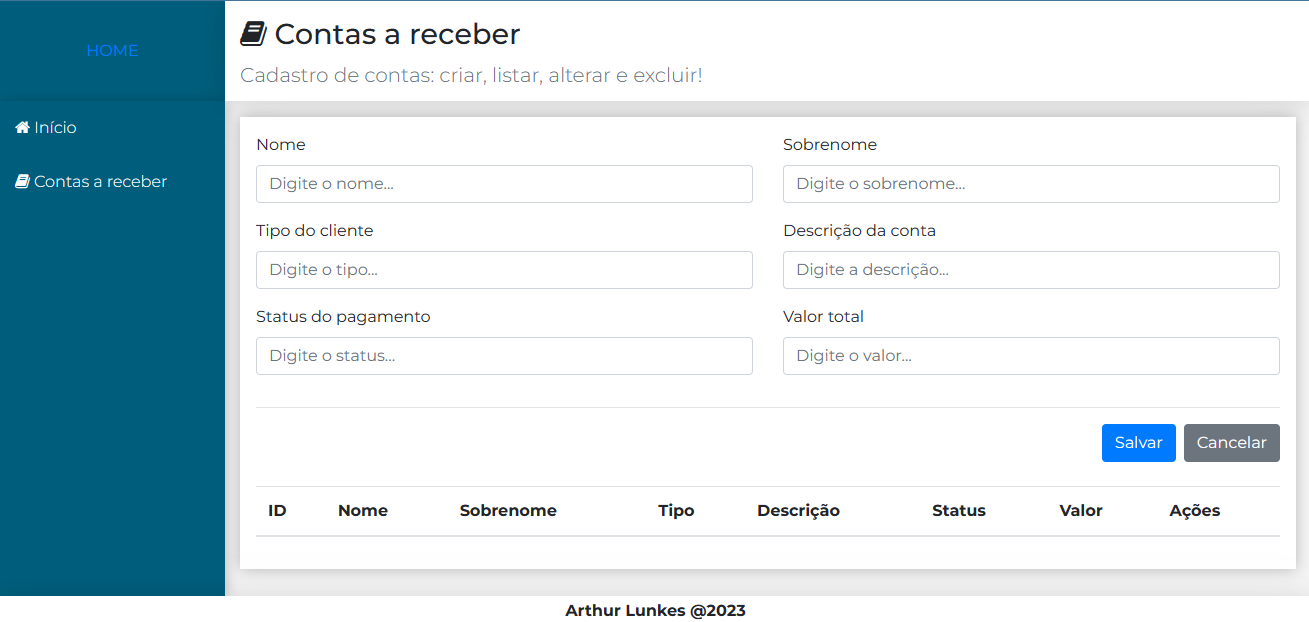
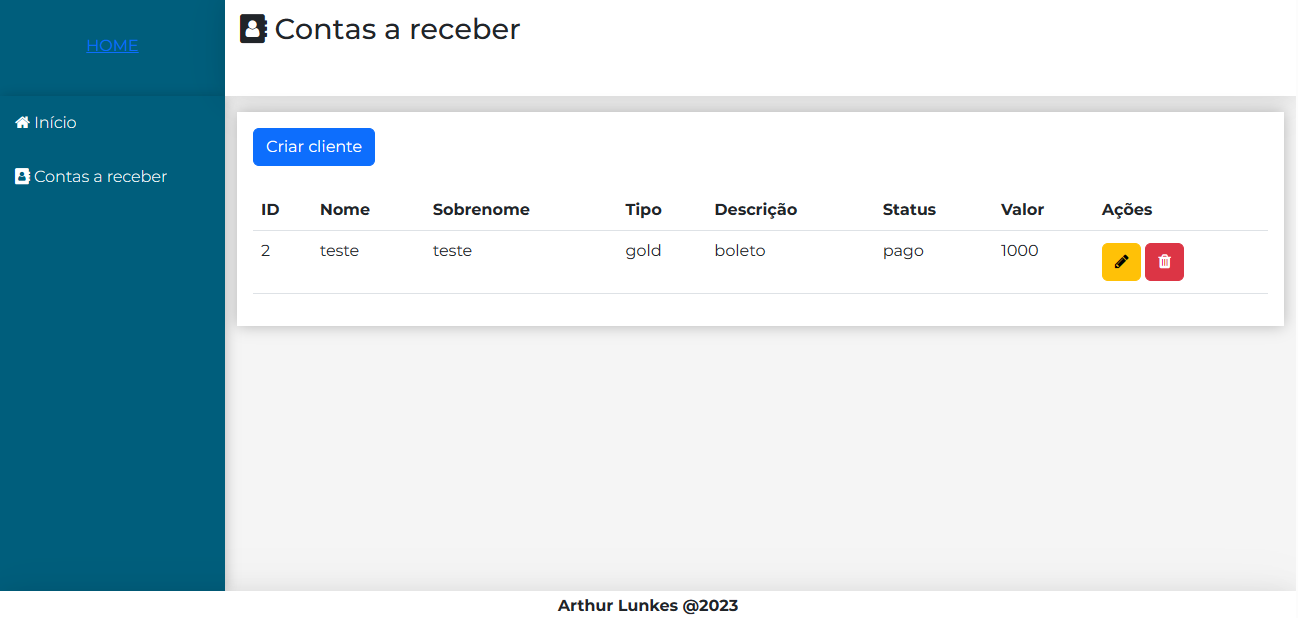
Funcionando crud de cliente

diff --git a/frontend/src/pages/Login/Login.jsx b/frontend/src/pages/Login/Login.jsx
@@ -1,6 +1,7 @@
-import './Login.css'
-import React, { useState, useContext } from 'react'
-import { AuthContext } from '../../contexts/AuthContext'
+import './Login.css';
+import React, { useState, useContext } from 'react';
+import { AuthContext } from '../../contexts/AuthContext';
+import { setAuthHeader } from '../../services/axios.js';
 import { Navigate } from 'react-router';
 import axios from 'axios';
 
@@ -21,12 +22,12 @@ const Login = () => {
 
   const handleSubmit = async (e) => {
     e.preventDefault();
-  
+
     const data = {
       login: username,
       password: password
     };
-  
+
     await axios.post(
       'http://localhost:8080/auth/login',
       data,
@@ -37,25 +38,26 @@ const Login = () => {
       }
     ).then(response => {
       console.log("Success ========>", response);
-      if(response.data.token !== null){
+      if (response.data.token !== null) {
         setAuth(true);
+        setAuthHeader(response.data.token);
       }
     }).catch(error => {
       console.log("Error ========>", error);
       alert("Usuário ou senha incorreto!")
     });
   };
-  
+
 
   const handleRegister = async (e) => {
     e.preventDefault();
-  
+
     const data = {
       login: username,
       password: password,
       role: isAdmin ? "ADMIN" : "USER"
     };
-  
+
     await axios.post(
       'http://localhost:8080/auth/register',
       data,
@@ -66,12 +68,12 @@ const Login = () => {
       }
     ).then(response => {
       console.log("Success ========>", response);
-      if(response.status === 200){
+      if (response.status === 200) {
         alert("Usuaário cadastrado com sucesso!");
       }
     }).catch(error => {
       console.log("Error ========>", error);
-      alert("error"+error);
+      alert("error" + error);
     });
   };
 
@@ -83,16 +85,16 @@ const Login = () => {
     <div className="backgroud">
       <div className="login-container">
         <div className="tabs">
-          <p
+          <span
             id='tab1'
             className={activeTab === "tab1" ? "active" : ""}
             onClick={handleTab1}
-          >Login</p>
-          <p
+          >Login</span>
+          <span
             id='tab2'
             className={activeTab === "tab2" ? "active" : ""}
             onClick={handleTab2}
-          >Registre-se</p>
+          >Registre-se</span>
         </div>
         {activeTab === "tab1" ?
           <div>
@@ -128,14 +130,14 @@ const Login = () => {
                 placeholder="Password"
                 value={password}
                 onChange={e => setPassword(e.target.value)}
-              />                
-                <label>Admin?
+              />
+              <label>Admin?
                 <input
                   type="checkbox"
                   value={isAdmin}
                   onChange={e => setIsAdmin(e.target.checked)}
                 />
-                </label>
+              </label>
               <button className='btn btn-primary' onClick={e => handleRegister(e)}>Registrar</button>
             </form>
           </div>

diff --git a/frontend/src/components/user/UserCrud.jsx b/frontend/src/components/user/UserCrud.jsx
@@ -1,7 +1,8 @@
-import React, { Component } from 'react'
-import './UserCrud.css'
-import axios from 'axios'
-import Main from '../template/Main'
+import React, { Component } from 'react';
+import './UserCrud.css';
+import axios from 'axios';
+import Main from '../template/Main';
+import { getAuthToken } from '../../services/axios';
 
 const headerProps = {
   icon: 'address-book',
@@ -24,21 +25,7 @@ const initialState = {
     description: '',
     status: ''
   },
-  list: [{
-    clientDTO: {
-      id: '1',
-      firstName: 'asdd',
-      lastName: 'asd',
-      typeClient: 'asdad'
-    },
-    receivableDTO: {
-      idReceivable: '1',
-      totalValue: '200',
-      description: 'asdas',
-      status: 'dasd'
-    }
-  }
-  ]
+  list: []
 }
 
 const ModalDefault = ({ isOpen, onClose, children }) => {
@@ -103,7 +90,7 @@ export default class UserCrud extends Component {
   }
 
   componentDidMount() {
-    axios.get(`${baseUrl}/clients`).then(resp => {
+    axios.get(`${baseUrl}/clients`, { headers: { Authorization: `Bearer ${getAuthToken()}` } }).then(resp => {
       this.setState({ list: this.transformResponse(resp.data) })
     })
   }
@@ -119,7 +106,7 @@ export default class UserCrud extends Component {
 
     const requestData = method === 'post' ? this.transformForCreate(this.state) : this.state
 
-    axios[method](url, requestData)
+    axios[method](url, requestData, { headers: { Authorization: `Bearer ${getAuthToken()}` } })
       .then(resp => {
         const list = this.getUpdatedList(resp.data)
         this.setState({ ...initialState, list, isModalOpen: false })
@@ -158,7 +145,7 @@ export default class UserCrud extends Component {
   }
 
   remove(client) {
-    axios.delete(`${baseUrl}/clients/${client.clientDTO.id}`).then(resp => {
+    axios.delete(`${baseUrl}/clients/${client.clientDTO.id}`, { headers: { Authorization: `Bearer ${getAuthToken()}` } }).then(resp => {
       const list = this.getUpdatedList(client, false);
       this.setState({ list });
     });

diff --git a/frontend/src/pages/Login/Login.css b/frontend/src/pages/Login/Login.css
@@ -3,17 +3,18 @@
   height: 100vh;
   display: flex;
   align-items: center;
+  justify-content: center;
 }
 
 .login-container {
   width: 300px;
-  margin: 0 auto;
   border: 1px solid #ccc;
   border-radius: 10px;
 }
 
 .login-container h2 {
   text-align: center;
+  margin-top: 10px;
   margin-bottom: 20px;
 }
 
@@ -34,25 +35,26 @@
   border-radius: 10px 10px 0px 0px;
 }
 
-p {
+span {
   width: 100%;
-  padding: 1rem;
+  padding: 10px;
   text-align: center;
   cursor: pointer;
   transition: all 0.7s;
 }
 
-p:hover {
+#tab1 {
+  border-radius: 11px 0px 0px 0px;
+}
+
+#tab2 {
+  border-radius: 0px 10px 0px 0px;
+}
+
+span:hover {
   background: rgba(50, 224, 196, 0.15);
 }
 
-p.active {
+span.active {
   background: #39a2db;
-}
-
-.checkbox {
-  width: min-content;
-  display: flex;
-  margin-bottom: 10px;
-  justify-content: center;
 }

diff --git a/backend/src/main/java/dev/arthur/accountsreceivable/infra/security/SecurityConfigurations.java b/backend/src/main/java/dev/arthur/accountsreceivable/infra/security/SecurityConfigurations.java
@@ -25,21 +25,22 @@ public class SecurityConfigurations {
     SecurityFilter securityFilter;
 
     @Bean
-public SecurityFilterChain securityFilterChain(HttpSecurity httpSecurity) throws Exception {
-    httpSecurity
+    public SecurityFilterChain securityFilterChain(HttpSecurity httpSecurity) throws Exception {
+        httpSecurity
             .csrf(csrf -> csrf.disable())
             .sessionManagement(session -> session.sessionCreationPolicy(SessionCreationPolicy.STATELESS))
             .authorizeHttpRequests(authorize -> authorize
                     .requestMatchers(HttpMethod.POST, "/auth/login").permitAll()
                     .requestMatchers(HttpMethod.POST, "/auth/register").permitAll()
-                    .requestMatchers(HttpMethod.GET, "/auth/users").permitAll()
-                    .requestMatchers(HttpMethod.POST, "/product").hasRole("ADMIN")
+                    .requestMatchers(HttpMethod.GET, "/auth/users").hasRole("ADMIN")
+                    .requestMatchers(HttpMethod.PUT, "/clients").hasRole("ADMIN")
+                    .requestMatchers(HttpMethod.DELETE, "/clients").hasRole("ADMIN")
                     .anyRequest().authenticated()
             )
             .addFilterBefore(securityFilter, UsernamePasswordAuthenticationFilter.class);
 
-    return httpSecurity.build();
-}
+        return httpSecurity.build();
+    }
 
     @Bean
     public AuthenticationManager authenticationManager(AuthenticationConfiguration authenticationConfiguration) throws Exception {
